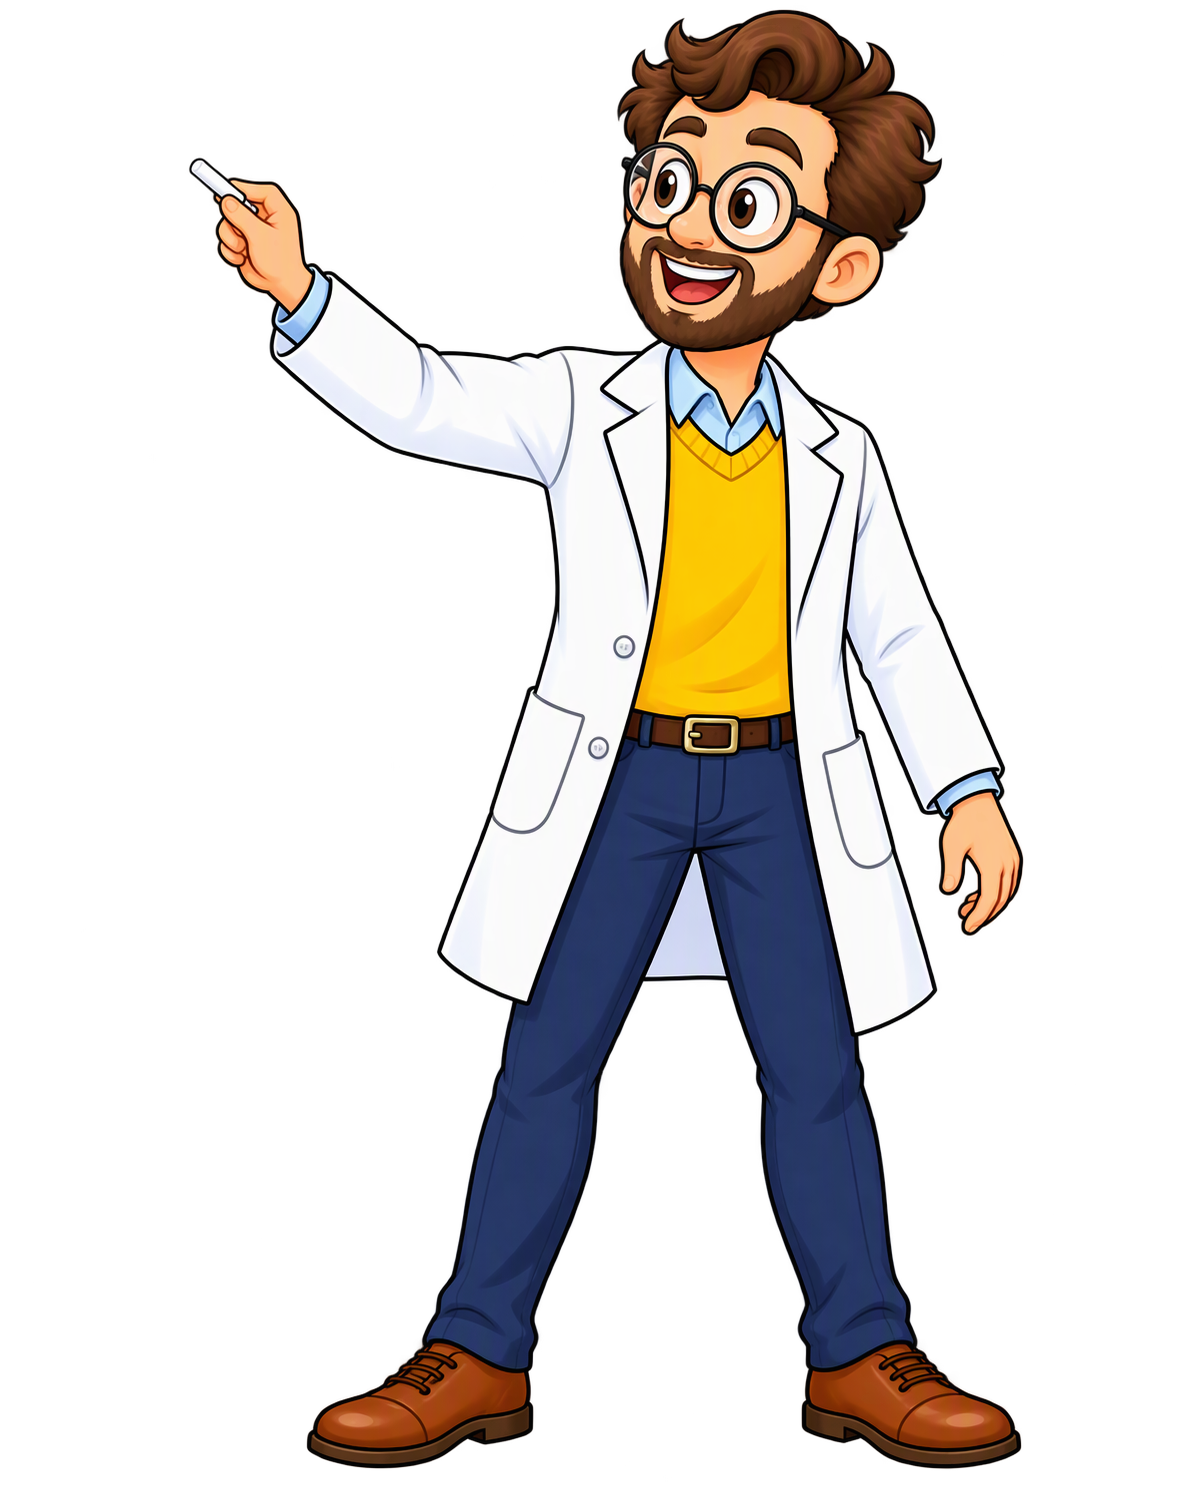
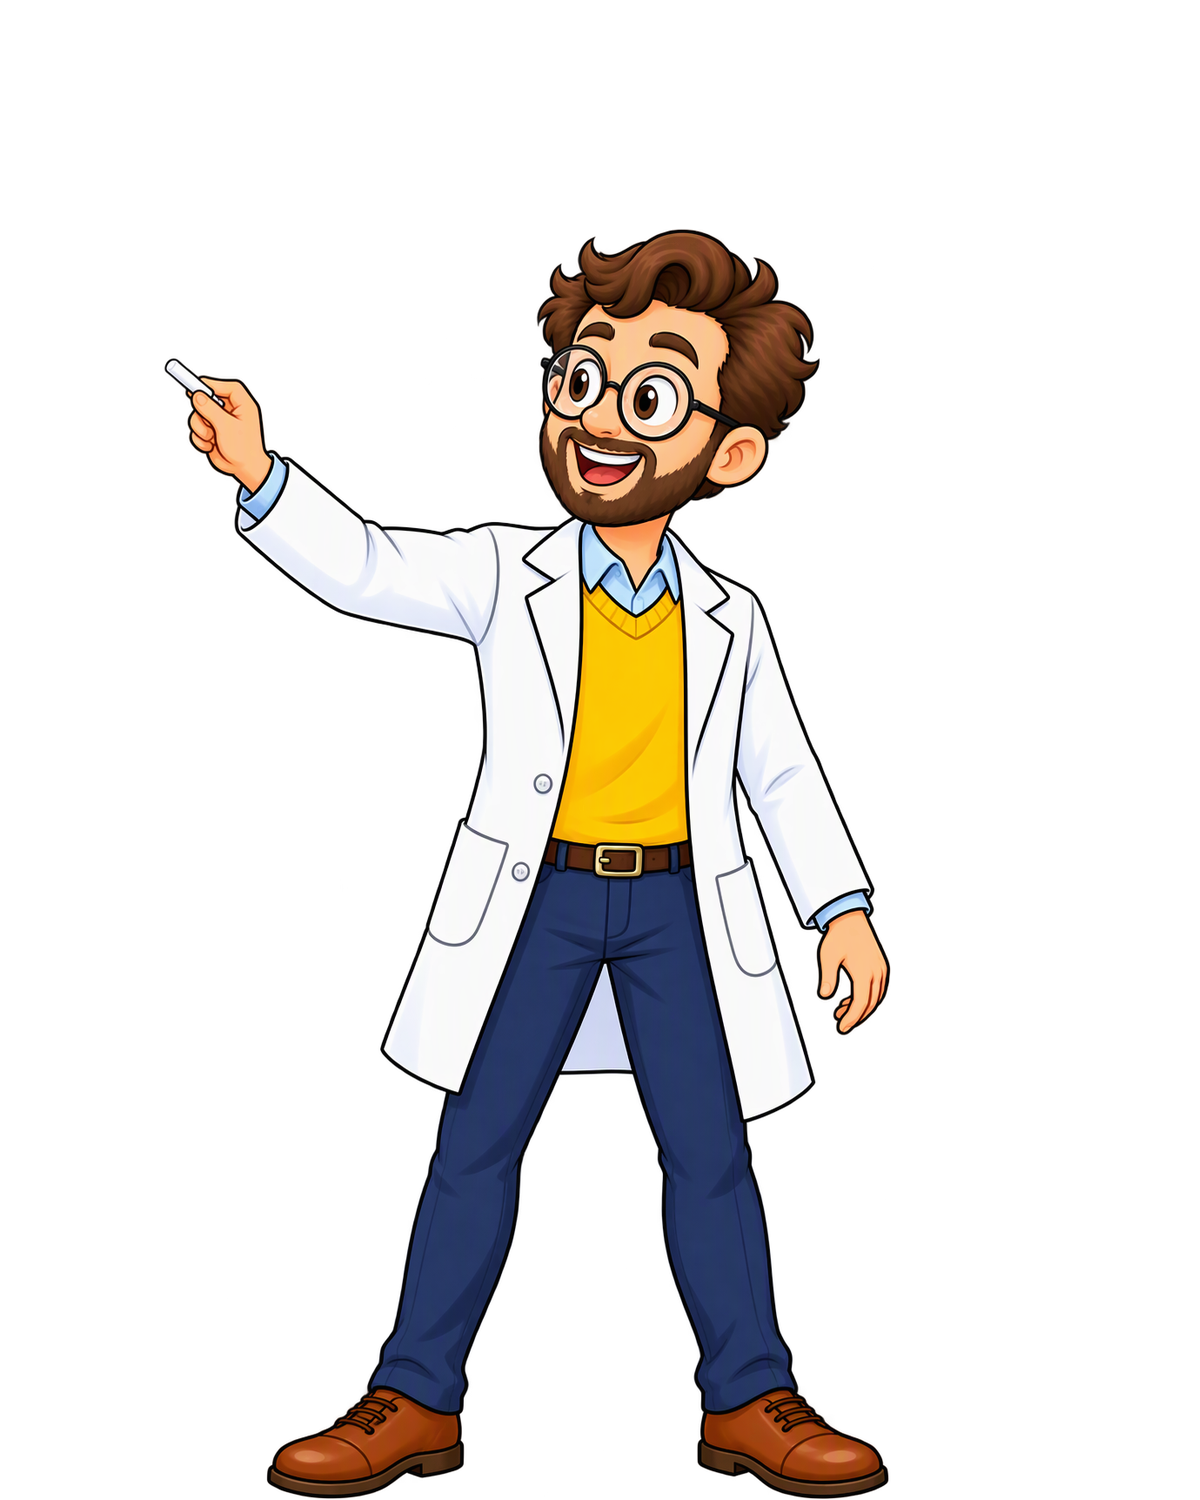
应用: 小人姿态图归一化——二批立绘（laser 变体/nod/shrug/write 等 26 张）按角色缩放表统一人物大小，脚底对齐基线（aqiang/zhongshan 1410、professor 1499），professor 的 laser_down/up 属小一号批次反向放大 1.06；新增 tools/normalize_poses.py 缩放表归一 + tools/pose_compare.py 红绿叠图比对工具

diff --git a/tools/normalize_poses.py b/tools/normalize_poses.py
@@ -1,0 +1,87 @@
+# -*- coding: utf-8 -*-
+"""姿态图归一化：按人工核定的缩放表统一人物大小，脚底对齐角色基线。
+
+缩放以腿部质心为水平锚点，脚底（内容底边）对齐各角色 pose_explain 的基线。
+缩放表来自叠图比对（tools/pose_compare.py 的红绿叠图）+ 身体高度/脚长测量。
+用法: python tools/normalize_poses.py
+"""
+import os
+
+import numpy as np
+from PIL import Image
+
+ROOT = os.path.join(os.path.dirname(os.path.abspath(__file__)), "..",
+                    "interactive-lecture", "public", "poses")
+W, H = 1200, 1500
+
+# 角色基线 = pose_explain 内容底边
+BASELINE = {"aqiang": 1410, "professor": 1499, "zhongshan": 1410}
+
+# 缩放因子表（1.0 = 不动）；未列出的姿态保持原样
+SCALE = {
+    "aqiang": {
+        "pose_laser_circle": 0.94, "pose_laser_far": 0.98, "pose_laser_high": 0.90,
+        "pose_laser_lean": 0.89, "pose_laser_low": 0.86, "pose_nod": 0.94,
+        "pose_shrug": 0.92, "pose_write": 0.90,
+    },
+    "professor": {
+        "pose_laser_circle": 0.85, "pose_laser_far": 0.87, "pose_laser_high": 0.87,
+        "pose_laser_lean": 0.86, "pose_laser_low": 0.86, "pose_nod": 0.88,
+        "pose_shrug": 0.88, "pose_write": 0.87,
+        "pose_laser_down": 1.06, "pose_laser_up": 1.06,
+    },
+    "zhongshan": {
+        "pose_laser_circle": 0.94, "pose_laser_far": 0.88, "pose_laser_high": 0.94,
+        "pose_laser_lean": 0.95, "pose_laser_low": 0.94, "pose_nod": 0.94,
+        "pose_shrug": 0.92, "pose_write": 0.93,
+        "pose_laser_down": 1.015, "pose_laser_up": 1.02,
+    },
+}
+
+
+def bbox(a):
+    rows = a.any(axis=1)
+    cols = a.any(axis=0)
+    h, w = a.shape
+    return (int(np.argmax(cols)), int(np.argmax(rows)),
+            w - int(np.argmax(cols[::-1])), h - int(np.argmax(rows[::-1])))
+
+
+def leg_cx(a, y1):
+    band = a[max(0, y1 - 300):y1, :]
+    cols = np.where(band.any(axis=0))[0]
+    return float(cols.mean()) if len(cols) else W / 2
+
+
+def main():
+    for role, table in SCALE.items():
+        d = os.path.join(ROOT, role)
+        base_y = BASELINE[role]
+        for name, s in table.items():
+            p = os.path.join(d, name + ".png")
+            if not os.path.exists(p):
+                print("missing:", p)
+                continue
+            im = Image.open(p).convert("RGBA")
+            nw, nh = max(1, round(W * s)), max(1, round(H * s))
+            sa = np.array(im.resize((nw, nh), Image.LANCZOS))
+            x0, y0, x1, y1 = bbox(sa[:, :, 3] > 10)
+            content = sa[y0:y1, x0:x1]
+            cx = leg_cx(sa[:, :, 3] > 10, y1)   # 缩放后的腿质心
+            out = np.zeros((H, W, 4), dtype=np.uint8)
+            # 水平保持缩放后的原位置；竖直：脚底（内容底边）对齐基线
+            px = x0
+            py = int(round(base_y - (y1 - y0)))
+            cw = min(content.shape[1], W - px)
+            ch = min(content.shape[0], H - py)
+            if px < 0 or py < 0 or cw <= 0 or ch <= 0:
+                print("!! 越界", p)
+                continue
+            out[py:py + ch, px:px + cw] = content[:ch, :cw]
+            Image.fromarray(out).save(p)
+            print(f"{role}/{name}: s={s} feetY={y1}->{base_y} (原 {y1})")
+    print("done")
+
+
+if __name__ == "__main__":
+    main()

diff --git a/tools/pose_compare.py b/tools/pose_compare.py
@@ -1,0 +1,65 @@
+# -*- coding: utf-8 -*-
+"""生成姿态对比叠图：红=pose_explain 基准，绿=目标姿态（脚底+腿质心对齐）。
+用于人工判定每个姿态的缩放因子。输出 tools/pose_cmp/<role>_<pose>.png（2x2 网格另拼）。
+用法: python tools/pose_compare.py
+"""
+import os
+import numpy as np
+from PIL import Image
+
+ROOT = os.path.join(os.path.dirname(os.path.abspath(__file__)), "..",
+                    "interactive-lecture", "public", "poses")
+OUT = os.path.join(os.path.dirname(os.path.abspath(__file__)), "pose_cmp")
+os.makedirs(OUT, exist_ok=True)
+W, H = 1200, 1500
+
+
+def alpha(p):
+    return np.array(Image.open(p).convert("RGBA"))[:, :, 3] > 10
+
+
+def bbox(a):
+    rows = a.any(axis=1); cols = a.any(axis=0)
+    return int(np.argmax(rows)), H - int(np.argmax(rows[::-1])), \
+           int(np.argmax(cols)), W - int(np.argmax(cols[::-1]))
+
+
+def leg_cx(a, y1):
+    band = a[max(0, y1 - 300):y1, :]
+    cols = np.where(band.any(axis=0))[0]
+    return float(cols.mean()) if len(cols) else W / 2
+
+
+def shift(a, dy, dx):
+    """把内容平移 (dy, dx)（正=向下/向右）"""
+    out = np.zeros_like(a)
+    sy0, dy0 = max(0, -dy), max(0, dy)
+    sx0, dx0 = max(0, -dx), max(0, dx)
+    h = min(a.shape[0] - sy0, H - dy0); w = min(a.shape[1] - sx0, W - dx0)
+    if h > 0 and w > 0:
+        out[dy0:dy0 + h, dx0:dx0 + w] = a[sy0:sy0 + h, sx0:sx0 + w]
+    return out
+
+
+for role in ["aqiang", "professor", "zhongshan"]:
+    d = os.path.join(ROOT, role)
+    ref = alpha(os.path.join(d, "pose_explain.png"))
+    ry0, ry1, _, _ = bbox(ref)
+    rcx = leg_cx(ref, ry1)
+    for f in sorted(os.listdir(d)):
+        if not f.endswith(".png") or f == "pose_explain.png":
+            continue
+        a = alpha(os.path.join(d, f))
+        y0, y1, _, _ = bbox(a)
+        cx = leg_cx(a, y1)
+        t = shift(a, ry1 - y1, int(rcx - cx))
+        img = np.full((H, W, 3), 255, dtype=np.uint8)
+        img[ref] = [220, 0, 0]
+        img[t] = [0, 150, 0]
+        img[ref & t] = [60, 60, 60]
+        # 网格线：基准头顶行
+        img[ry0 - 2:ry0 + 2, :] = [0, 0, 255]
+        img[ry1 - 2:ry1 + 2, :] = [0, 0, 255]
+        Image.fromarray(img).resize((W // 2, H // 2)).save(
+            os.path.join(OUT, f"{role}_{f}"))
+print("done ->", OUT)

diff --git a/README.md b/README.md
@@ -242,7 +242,7 @@ IndexError——拿不准就把该页两个文件一起删。
 | 图上叠加标注 | 故意的图内文字/公式标注（如图角公式牌）加 `overlay=True`，质检器跳过它与图的重叠检查 |
 | SVG 图示坐标 | 所有绘制内容必须收在 viewBox 内（质检按未裁剪几何量测，越界即报「文字进图区」）；`OmegaArrow`/`ArcLine` 用**负角度**画上方（屏幕坐标 y 向下） |
 | 章节导航 | 默认收起；页码指示器是可点按钮（点它展开/收起，跳页后自动收起）。其文本格式 `id/总数 标题` 被质检器 `pageShown` 依赖，不能改格式 |
-| 小人姿态 | 9 基础 + 7 激光变体，立绘在 `public/poses/<角色>/pose_<名>.png`（1200×1500 透明底，三角色同名同义）。激光变体按方位/距离确定性选择（`Teacher.tsx`：高低位按 dy 五档、远指 dx>舞台宽一半、同点指 4 秒画圈——**全部纯派生，禁止组件内定时器**）；新角色按同名 16 张补齐即可即插即用。**姿态语义驱动，不做强制轮换**：没有语义触发时保持讲解姿态，非语义动作只有激光指点、页尾收束（思考/点头）。**语义映射**（`Home.tsx`）：语义词按句内字符位置比例插值出「被说出的时刻」（与构建器步进时刻同算法），说到才换动作不抢拍，句尾剩余 >1.5s 才触发。摊手=提出问题（句尾问号整句触发，或含 为什么/怎么办/如何 等）、指天=得出结论（含 所以/因此/得到/可见/也就是说/结论 等，优先级高于板书）、思考=引导思考（含 想一想/不妨/考虑 等）、板书=推导演算（含 推导/公式/代入/展开/写成 等）；讲稿写作时让语气词落在对应句子里，小人动作自然贴合内容。**emphasis（双手举过头）不进常规轮换**，只在特殊节点出现：整课收尾最后 6 秒，或 important 难点激光刚收笔的 1.8 秒内。激光光点与画圈姿态联动：同一 `elapsed>4` 信号下光点绕目标点转小圈（CSS rotate，半径 34 设计坐标、1.6s 周期），姿态画圈时光点必在画圈 |
+| 小人姿态 | 9 基础 + 7 激光变体，立绘在 `public/poses/<角色>/pose_<名>.png`（1200×1500 透明底，三角色同名同义）。**入库前必须归一大小**：新姿态图用 `tools/normalize_poses.py` 的缩放表统一（脚底对齐角色基线 aqiang/zhongshan=1410、professor=1499，比例用 `tools/pose_compare.py` 的红绿叠图人工核定）——不同批次的立绘原始比例不同，不归一会换姿态忽大忽小。激光变体按方位/距离确定性选择（`Teacher.tsx`：高低位按 dy 五档、远指 dx>舞台宽一半、同点指 4 秒画圈——**全部纯派生，禁止组件内定时器**）；新角色按同名 16 张补齐即可即插即用。**姿态语义驱动，不做强制轮换**：没有语义触发时保持讲解姿态，非语义动作只有激光指点、页尾收束（思考/点头）。**语义映射**（`Home.tsx`）：语义词按句内字符位置比例插值出「被说出的时刻」（与构建器步进时刻同算法），说到才换动作不抢拍，句尾剩余 >1.5s 才触发。摊手=提出问题（句尾问号整句触发，或含 为什么/怎么办/如何 等）、指天=得出结论（含 所以/因此/得到/可见/也就是说/结论 等，优先级高于板书）、思考=引导思考（含 想一想/不妨/考虑 等）、板书=推导演算（含 推导/公式/代入/展开/写成 等）；讲稿写作时让语气词落在对应句子里，小人动作自然贴合内容。**emphasis（双手举过头）不进常规轮换**，只在特殊节点出现：整课收尾最后 6 秒，或 important 难点激光刚收笔的 1.8 秒内。激光光点与画圈姿态联动：同一 `elapsed>4` 信号下光点绕目标点转小圈（CSS rotate，半径 34 设计坐标、1.6s 周期），姿态画圈时光点必在画圈 |
 | 框体宽度 | `box` 容器内边距 20px/边（共 40）：**声明宽 = 文字净宽 + 40 + 视觉余量（≥30）**。文字净宽估算：汉字/全角标点按 **1.0em**（44 号 ≈44px/字，曾按 34px 估导致 9-1 P5 溢出返工两次），ASCII ≈0.5em、空格 ≈0.3em、行内公式按字符 0.6em；拿不准就浏览器实测。校验器已按「估宽→换行→估高 > 声明 h」自动拦截（ERROR）；播放器 box 高度自适应（`minHeight`）兜底，估窄了也只是框微增高，不再露底 |
 | 框体高度 | display 公式（`tex_f`/`tex`）的 `.katex-display` 外边距已全局收紧为 **0.25em**（原 1em 会把框撑高撞下一元素，9-1 P8/P9/P15 教训），**声明 h 按公式真实高度写**（分式 ≈3em、根号套分式 ≈3.5em，或浏览器实测）；box 高度自适应以声明 h 为下限，写小了框会微增并可能与下方元素相撞——质检器按边框盒抓 box 重叠 |
 | 质检可见性 | `?qa=1` 必须在**用户正看着的（可见）标签页**里跑：隐藏标签页布局为 0，量出来的全是空盒/假重叠；跑的时候确认「正在检查第 N 页」进度稳定推进，卡住即说明页被切到后台了 |
